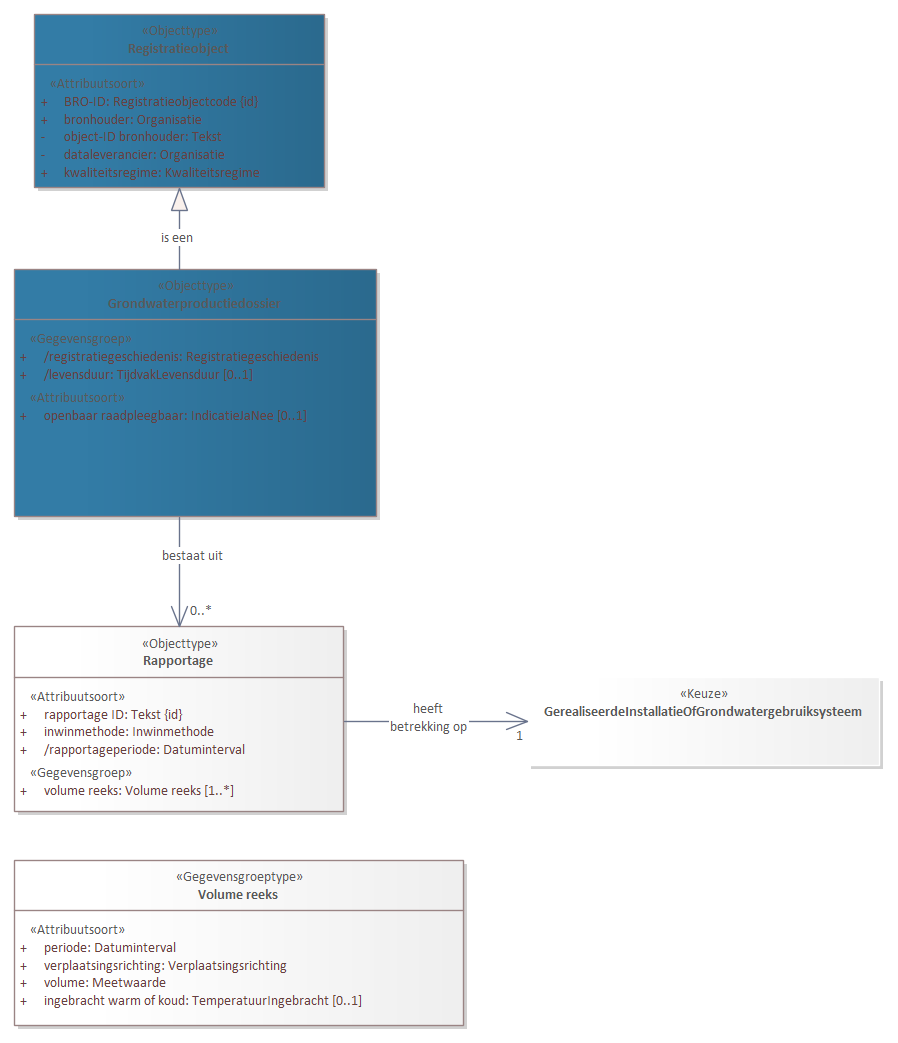
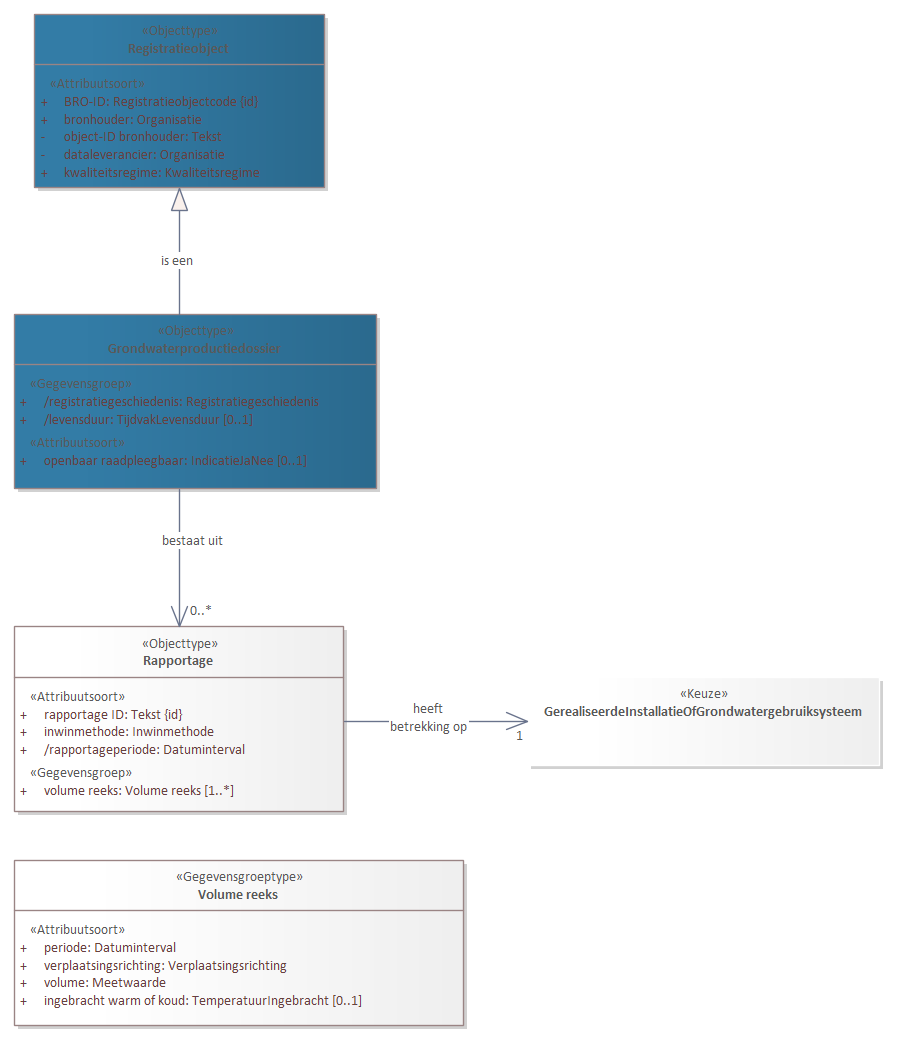
Conceptualmodel-GrondwaterproductiedossierGPDconceptueel-1.0-3-20220113-20250822-190338

Changed region(s): [[0.0, 0.2148, 0.4365, 0.5523]]

diff --git a/data/GPD-cat.msword.html b/data/GPD-cat.msword.html
@@ -15,7 +15,7 @@
    <body>
       <p>Conceptual model/Grondwaterproductiedossier (GPD) conceptueel/20220113</p>
       <p>Imvertor: 3.0.0</p>
-      <p>Model release: Conceptualmodel-GrondwaterproductiedossierGPDconceptueel-1.0-3-20220113-20250822-185442</p>
+      <p>Model release: Conceptualmodel-GrondwaterproductiedossierGPDconceptueel-1.0-3-20220113-20250822-190338</p>
       <hr>
       <section>
          <h1>Artikel 1 Definitie van registratieobject, entiteiten en attributen</h1>
@@ -63,7 +63,7 @@
          <section>
             <h2>Het domeinmodel</h2>
             <section>
-               <div class="imageinfo overview"><img src="Images/EAID_D9578C60_D3C8_4660_9BC8_07F4862E13E4.png" usemap="#imagemap-EAID_D9578C60_D3C8_4660_9BC8_07F4862E13E4" alt="Diagram &#xA;                        &#xA;                     "><map name="imagemap-EAID_D9578C60_D3C8_4660_9BC8_07F4862E13E4"><area shape="rect" alt="GerealiseerdeInstallatieOfGrondwatergebruiksysteem" coords="527,677,880,766" href="#global_class_GPD_GerealiseerdeInstallatieOfGrondwatergebruiksysteem"><area shape="rect" alt="Volume reeks" coords="14,860,464,1026" href="#global_class_GPD_Volumereeks"><area shape="rect" alt="Rapportage" coords="14,626,344,812" href="#global_class_GPD_Rapportage"><area shape="rect" alt="Grondwaterproductiedossier" coords="14,269,377,517" href="#global_class_GPD_Grondwaterproductiedossier"><area shape="rect" alt="Registratieobject" coords="34,14,325,188" href="#global_class_GPD_Registratieobject"></map><p><b>Domeinmodel GPD conceptueel</b></p>
+               <div class="imageinfo overview"><img src="Images/EAID_D9578C60_D3C8_4660_9BC8_07F4862E13E4.png" usemap="#imagemap-EAID_D9578C60_D3C8_4660_9BC8_07F4862E13E4" alt="Diagram &#xA;                        &#xA;                     "><map name="imagemap-EAID_D9578C60_D3C8_4660_9BC8_07F4862E13E4"><area shape="rect" alt="GerealiseerdeInstallatieOfGrondwatergebruiksysteem" coords="527,677,880,766" href="#global_class_GPD_GerealiseerdeInstallatieOfGrondwatergebruiksysteem"><area shape="rect" alt="Volume reeks" coords="14,860,464,1026" href="#global_class_GPD_Volumereeks"><area shape="rect" alt="Rapportage" coords="14,626,344,812" href="#global_class_GPD_Rapportage"><area shape="rect" alt="Grondwaterproductiedossier" coords="14,314,377,489" href="#global_class_GPD_Grondwaterproductiedossier"><area shape="rect" alt="Registratieobject" coords="34,14,325,188" href="#global_class_GPD_Registratieobject"></map><p><b>Domeinmodel GPD conceptueel</b></p>
                </div>
             </section>
          </section>

diff --git a/data/GPD-cat.respec.html b/data/GPD-cat.respec.html
@@ -41,7 +41,7 @@
       </section>
    <section>
       <h2>Het domeinmodel   </h2>
-      <div class="imageinfo overview"><img src="data/Images/EAID_D9578C60_D3C8_4660_9BC8_07F4862E13E4.png" usemap="#imagemap-EAID_D9578C60_D3C8_4660_9BC8_07F4862E13E4" alt="Diagram &#xA;                        &#xA;                     "><map name="imagemap-EAID_D9578C60_D3C8_4660_9BC8_07F4862E13E4"><area shape="rect" alt="GerealiseerdeInstallatieOfGrondwatergebruiksysteem" coords="527,677,880,766" href="#global_class_GPD_GerealiseerdeInstallatieOfGrondwatergebruiksysteem"><area shape="rect" alt="Volume reeks" coords="14,860,464,1026" href="#global_class_GPD_Volumereeks"><area shape="rect" alt="Rapportage" coords="14,626,344,812" href="#global_class_GPD_Rapportage"><area shape="rect" alt="Grondwaterproductiedossier" coords="14,269,377,517" href="#global_class_GPD_Grondwaterproductiedossier"><area shape="rect" alt="Registratieobject" coords="34,14,325,188" href="#global_class_GPD_Registratieobject"></map><p><b>Domeinmodel GPD conceptueel</b></p>
+      <div class="imageinfo overview"><img src="data/Images/EAID_D9578C60_D3C8_4660_9BC8_07F4862E13E4.png" usemap="#imagemap-EAID_D9578C60_D3C8_4660_9BC8_07F4862E13E4" alt="Diagram &#xA;                        &#xA;                     "><map name="imagemap-EAID_D9578C60_D3C8_4660_9BC8_07F4862E13E4"><area shape="rect" alt="GerealiseerdeInstallatieOfGrondwatergebruiksysteem" coords="527,677,880,766" href="#global_class_GPD_GerealiseerdeInstallatieOfGrondwatergebruiksysteem"><area shape="rect" alt="Volume reeks" coords="14,860,464,1026" href="#global_class_GPD_Volumereeks"><area shape="rect" alt="Rapportage" coords="14,626,344,812" href="#global_class_GPD_Rapportage"><area shape="rect" alt="Grondwaterproductiedossier" coords="14,314,377,489" href="#global_class_GPD_Grondwaterproductiedossier"><area shape="rect" alt="Registratieobject" coords="34,14,325,188" href="#global_class_GPD_Registratieobject"></map><p><b>Domeinmodel GPD conceptueel</b></p>
       </div>
    </section>
    <section>
